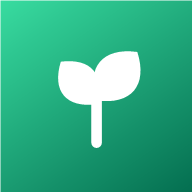
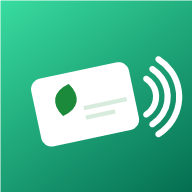
Add files via upload

Changed region(s): [[0.1562, 0.25, 0.9688, 0.7812]]

diff --git a/app.js b/app.js
@@ -220,6 +220,17 @@ async function startNFC() {
 }
 async function captureUid(cb) { if (!nfcReader) await startNFC(); captureCb = cb; toast('Acerca la tarjeta…'); }
 
+// Reloj grande en la pantalla de reposo.
+function startClock() {
+  const c = $('#clock'), d = $('#restDate');
+  const upd = () => {
+    const now = new Date();
+    c.textContent = now.toLocaleTimeString('es-ES', { hour: '2-digit', minute: '2-digit' });
+    d.textContent = now.toLocaleDateString('es-ES', { weekday: 'long', day: 'numeric', month: 'long' });
+  };
+  upd(); setInterval(upd, 1000);
+}
+
 /* ============================ PIN ============================ */
 const pinHash = pin => sha256hex('pin:' + pin);
 async function checkPin(pin) {
@@ -241,39 +252,53 @@ function openAdminLogin() {
 function openAdmin() { show('#admin'); panelHoras(); }
 function exitAdmin() { captureCb = null; show('#kiosk'); }
 
-/* --- Alta de tarjeta --- */
+/* --- Alta y edición de trabajadores --- */
+let altaFotoData = '';
 async function panelAlta() {
   setPanel(`
-    <h2>Alta de tarjeta</h2>
-    <p>1. Acerca la tarjeta nueva y pulsa <b>Leer tarjeta</b> (o escribe el número).</p>
+    <h2>Trabajadores y tarjetas</h2>
+    <p>Da de alta acercando una tarjeta (o escribe el número), o pulsa <b>Editar</b> en la lista de abajo para cambiar nombre o foto.</p>
     <div class="row"><button id="altaLeer" class="btn">📶 Leer tarjeta</button>
       <input id="altaUid" placeholder="UID de la tarjeta"></div>
-    <p>2. Nombre del trabajador:</p>
+    <p>Nombre:</p>
     <input id="altaNombre" placeholder="Nombre">
-    <p>3. Foto (cámara o galería):</p>
+    <p>Foto (cámara o galería):</p>
     <input id="altaFoto" type="file" accept="image/*">
     <img id="altaPrev" class="prev hidden">
-    <div class="row"><button id="altaGuardar" class="btn primary">Guardar</button></div>
+    <div class="row"><button id="altaGuardar" class="btn primary">Guardar</button>
+      <button id="altaLimpiar" class="btn">Nuevo / limpiar</button></div>
     <div id="altaMsg" class="msg"></div>
-    <h3>Tarjetas dadas de alta</h3><div id="altaLista"></div>`);
-  let fotoData = '';
+    <h3>Trabajadores</h3><div id="altaLista"></div>`);
+  altaFotoData = '';
   $('#altaLeer').onclick = () => captureUid(uid => { $('#altaUid').value = uid; });
-  $('#altaFoto').onchange = async e => { if (e.target.files[0]) { fotoData = await fileToThumb(e.target.files[0]); const p = $('#altaPrev'); p.src = fotoData; p.classList.remove('hidden'); } };
+  $('#altaFoto').onchange = async e => { if (e.target.files[0]) { altaFotoData = await fileToThumb(e.target.files[0]); showAltaPrev(altaFotoData); } };
+  $('#altaLimpiar').onclick = () => { $('#altaUid').value = ''; $('#altaNombre').value = ''; altaFotoData = ''; showAltaPrev(''); $('#altaMsg').textContent = ''; };
   $('#altaGuardar').onclick = async () => {
     const uid = normUid($('#altaUid').value.trim()), nombre = $('#altaNombre').value.trim();
     if (!uid || !nombre) { $('#altaMsg').textContent = 'Falta el UID o el nombre'; return; }
     const exists = await getWorker(uid);
-    await putWorker({ uid, nombre, foto: fotoData || (exists && exists.foto) || '', alta_ts: Date.now() });
-    $('#altaMsg').textContent = exists ? 'Tarjeta actualizada ✓' : 'Tarjeta dada de alta ✓';
+    await putWorker({ uid, nombre, foto: altaFotoData || (exists && exists.foto) || '', alta_ts: (exists && exists.alta_ts) || Date.now() });
+    $('#altaMsg').textContent = exists ? 'Trabajador actualizado ✓' : 'Trabajador dado de alta ✓';
     captureCb = null; renderAltaLista();
   };
   renderAltaLista();
 }
+function showAltaPrev(data) { const p = $('#altaPrev'); if (data) { p.src = data; p.classList.remove('hidden'); } else { p.src = ''; p.classList.add('hidden'); } }
 async function renderAltaLista() {
   const ws = await getAllWorkers();
   $('#altaLista').innerHTML = ws.length
-    ? ws.map(w => `<div class="wrow"><img src="${w.foto || ''}" class="mini">${w.nombre} <span class="muted">${w.uid}</span></div>`).join('')
-    : '<p class="muted">Ninguna todavía.</p>';
+    ? ws.map(w => `<div class="wrow"><img src="${w.foto || ''}" class="mini">${w.nombre} <span class="muted">${w.uid}</span> <button class="btn sm" data-edit="${w.uid}">Editar</button></div>`).join('')
+    : '<p class="muted">Ninguno todavía.</p>';
+  $('#altaLista').querySelectorAll('[data-edit]').forEach(b => b.onclick = () => editWorker(b.dataset.edit));
+}
+async function editWorker(uid) {
+  const w = await getWorker(uid); if (!w) return;
+  $('#altaUid').value = w.uid;
+  $('#altaNombre').value = w.nombre;
+  altaFotoData = w.foto || '';
+  showAltaPrev(w.foto || '');
+  $('#altaMsg').textContent = 'Editando a ' + w.nombre + ' — cambia el nombre o la foto y pulsa Guardar';
+  $('#adminBody').scrollIntoView({ block: 'start' });
 }
 
 /* --- Corrección (log de auditoría, nunca borra el original) --- */
@@ -495,15 +520,23 @@ function panelIntegridad() {
   };
 }
 
-/* --- Cambiar PIN --- */
+/* --- Ajustes: cambiar PIN + borrar datos --- */
 function panelPin() {
   setPanel(`
-    <h2>Cambiar PIN</h2>
+    <h2>Ajustes</h2>
+    <h3>Cambiar PIN</h3>
     <p>PIN nuevo (mínimo 4 dígitos):</p>
     <input id="pinNew" type="password" inputmode="numeric" placeholder="PIN nuevo">
     <input id="pinNew2" type="password" inputmode="numeric" placeholder="Repite el PIN">
     <button id="pinSave" class="btn primary">Guardar PIN</button>
-    <div id="pinMsg" class="msg"></div>`);
+    <div id="pinMsg" class="msg"></div>
+    <hr style="margin:22px 0;border:none;border-top:1px solid #ddd">
+    <h3>Borrar todos los datos</h3>
+    <p class="muted">Borra <b>todos los fichajes y todas las tarjetas</b>. Úsalo solo para empezar de cero
+    (por ejemplo, antes de usar las tarjetas reales). <b>No se puede deshacer.</b> Si tienes fichajes que
+    quieras guardar, expórtalos antes en <b>Exportar</b>.</p>
+    <button id="resetBtn" class="btn" style="background:#c62828">🗑 Borrar todos los datos</button>
+    <div id="resetMsg" class="msg"></div>`);
   $('#pinSave').onclick = async () => {
     const a = $('#pinNew').value, b = $('#pinNew2').value;
     if (a.length < 4) return $('#pinMsg').textContent = 'Mínimo 4 dígitos';
@@ -511,11 +544,29 @@ function panelPin() {
     await metaPut({ id: 'pin', hash: await pinHash(a) });
     $('#pinMsg').textContent = 'PIN cambiado ✓';
   };
+  $('#resetBtn').onclick = async () => {
+    const t = prompt('Esto borrará TODOS los fichajes y tarjetas.\nEscribe BORRAR (en mayúsculas) para confirmar:');
+    if (t !== 'BORRAR') return $('#resetMsg').textContent = 'Cancelado (no se borró nada).';
+    await resetAllData();
+    $('#resetMsg').textContent = 'Datos borrados. Todo a cero ✓';
+  };
+}
+// Borra fichajes + tarjetas y reinicia la cadena. Conserva el PIN.
+async function resetAllData() {
+  await new Promise((res, rej) => {
+    const t = db.transaction(['records', 'workers', 'meta'], 'readwrite');
+    t.oncomplete = res; t.onerror = () => rej(t.error);
+    t.objectStore('records').clear();
+    t.objectStore('workers').clear();
+    t.objectStore('meta').delete('chain');
+  });
+  lastRead = { uid: null, at: 0 };
 }
 
 /* ============================ Arranque ============================ */
 (async () => {
   db = await dbp;
+  startClock();
   // Kiosco: intenta NFC; si necesita gesto, mostrará "Toca la pantalla".
   await startNFC();
   $('#kiosk').addEventListener('click', e => { if (e.target.id !== 'gear' && !nfcReader) startNFC(); });

diff --git a/index.html b/index.html
@@ -15,7 +15,22 @@
 <section id="kiosk" class="screen active">
   <button id="gear" title="Administrador">&#9881;</button>
   <div id="rest">
-    <div class="rest-emoji">&#127793;</div>
+    <div id="clock">--:--</div>
+    <div id="restDate"></div>
+    <svg id="restArt" viewBox="0 0 260 190" xmlns="http://www.w3.org/2000/svg" aria-hidden="true">
+      <g transform="rotate(-10 109 104)">
+        <rect x="34" y="54" width="150" height="100" rx="16" fill="#ffffff"/>
+        <path d="M64 112 Q 64 80 104 80 Q 104 118 64 112 Z" fill="#1b8a3a"/>
+        <path d="M70 108 L 98 86" stroke="#ffffff" stroke-width="3" stroke-linecap="round"/>
+        <rect x="116" y="90" width="52" height="9" rx="4.5" fill="#cfe8d6"/>
+        <rect x="116" y="110" width="36" height="9" rx="4.5" fill="#cfe8d6"/>
+      </g>
+      <g class="waves" stroke="#ffffff" stroke-width="11" stroke-linecap="round" fill="none">
+        <path class="w1" d="M196 76 a 30 30 0 0 1 0 48"/>
+        <path class="w2" d="M210 62 a 46 46 0 0 1 0 76"/>
+        <path class="w3" d="M224 48 a 62 62 0 0 1 0 104"/>
+      </g>
+    </svg>
     <div class="rest-text">Acerca tu tarjeta</div>
     <div id="tapHint" class="hidden">Toca la pantalla para activar</div>
     <div id="nfcWarn" class="hidden">Este navegador no soporta NFC.<br>Usa Chrome en Android.</div>
@@ -50,7 +65,7 @@
     <button id="navConsulta">&#128269; Consulta</button>
     <button id="navExport">&#11015; Exportar</button>
     <button id="navInteg">&#128274; Integridad</button>
-    <button id="navPin">&#128273; PIN</button>
+    <button id="navPin">&#9881; Ajustes</button>
     <button id="navSalir">&#8592; Salir</button>
   </div>
   <div id="adminBody"></div>

diff --git a/styles.css b/styles.css
@@ -5,10 +5,17 @@ html,body{margin:0;height:100%;font-family:system-ui,Arial,sans-serif;background
 .hidden{display:none!important}
 
 /* ===== KIOSCO ===== */
-#kiosk{position:relative;height:100vh;display:flex;align-items:center;justify-content:center;background:#122a1c}
+#kiosk{position:relative;height:100vh;display:flex;align-items:center;justify-content:center;background:radial-gradient(circle at 50% 40%,#14514a 0%,#0e2a4a 55%,#0a1c38 100%)}
 #gear{position:absolute;top:8px;right:8px;background:transparent;border:none;font-size:26px;opacity:.25;color:#fff}
 #rest{text-align:center;padding:20px}
-.rest-emoji{font-size:120px;line-height:1}
+#clock{font-size:min(18vw,108px);font-weight:800;line-height:1;letter-spacing:2px;font-variant-numeric:tabular-nums}
+#restDate{font-size:min(5vw,26px);opacity:.85;margin:4px 0 14px;text-transform:capitalize}
+#restArt{width:min(66vw,320px);height:auto;margin-bottom:12px;filter:drop-shadow(0 10px 24px #0005)}
+#restArt .waves path{opacity:.22;animation:nfcpulse 1.8s infinite}
+#restArt .w2{animation-delay:.22s}
+#restArt .w3{animation-delay:.44s}
+@keyframes nfcpulse{0%,55%,100%{opacity:.22}28%{opacity:1}}
+@media (prefers-reduced-motion:reduce){#restArt .waves path{animation:none;opacity:.85}}
 .rest-text{font-size:min(12vw,64px);font-weight:800}
 #tapHint,#nfcWarn{margin-top:20px;font-size:22px;background:#0006;padding:10px 16px;border-radius:12px;display:inline-block}
 #result{position:fixed;inset:0;display:flex;flex-direction:column;align-items:center;justify-content:center;text-align:center;padding:20px}

diff --git a/sw.js b/sw.js
@@ -1,4 +1,4 @@
-const CACHE = 'fichaje-v3';
+const CACHE = 'fichaje-v5';
 const ASSETS = ['.', 'index.html', 'styles.css', 'app.js', 'manifest.webmanifest', 'icon-192.png', 'icon-512.png'];
 
 self.addEventListener('install', e => {

diff --git a/README.md b/README.md
@@ -75,6 +75,25 @@ Para cambiar la foto o el nombre, vuelve a leer la misma tarjeta y guarda de nue
   - Fondo **rojo**: tarjeta no dada de alta.
 - A los ~3-4 segundos vuelve solo a la pantalla de reposo.
 - El sistema decide solo si es entrada o salida (alterna según el último fichaje del día).
+- En reposo se ve la **hora y la fecha** grandes.
+
+### Cuántas veces fichar según el horario
+
+El sistema alterna entrada/salida solo, así que basta con **acercar la tarjeta en cada momento**:
+
+- **Verano (julio y agosto)** — jornada seguida 6:00 a 14:00. Se ficha **2 veces**:
+  1. Al **entrar** (6:00) → verde.
+  2. Al **salir** (14:00) → naranja.
+- **Resto del año (desde septiembre)** — jornada partida 7:30–13:00 y 13:30–16:00, con media
+  hora para comer. Se ficha **4 veces**:
+  1. Al **entrar** (7:30) → verde.
+  2. Al **irse a comer** (13:00) → naranja.
+  3. Al **volver de comer** (13:30) → verde.
+  4. Al **salir** (16:00) → naranja.
+
+La media hora de la comida **no cuenta** como trabajada (el sistema resta el hueco entre la
+salida y la siguiente entrada). Si alguien se olvida de fichar alguna de las 4, ese día sale
+marcado como **incompleto** y se arregla en *Corrección*.
 
 ---
 
@@ -82,17 +101,20 @@ Para cambiar la foto o el nombre, vuelve a leer la misma tarjeta y guarda de nue
 
 Engranaje ⚙ → PIN (por defecto **1234**). Menú:
 
-- **Alta tarjeta**: registrar / actualizar trabajadores.
+- **Alta tarjeta**: dar de alta trabajadores y **editar** el nombre o la foto de los que ya
+  existen (botón *Editar* en la lista).
 - **Corrección**: NO borra ni edita el original. Añade un registro de corrección con
-  **motivo** (añadir un fichaje olvidado, anular uno erróneo o cambiar la hora). Queda todo
-  en el log de auditoría.
-- **Horas**: horas por día (salida − entrada) y **totales** por trabajador y periodo
-  (*Esta semana* / *Este mes* / rango de fechas). Los días **incompletos** (falta entrada o
-  salida) salen marcados en **rojo** para corregirlos.
+  **motivo** (añadir un fichaje olvidado, anular uno erróneo o cambiar la hora). Las horas
+  puestas a mano por el administrador se marcan con un **\*** en los listados. Queda todo en
+  el log de auditoría.
+- **Horas**: horas por día y **totales** por trabajador y periodo (*Esta semana* / *Este mes*
+  / rango de fechas). Los días **incompletos** (falta entrada o salida) salen en **rojo**.
 - **Consulta**: ver los fichajes de un trabajador concreto.
 - **Exportar**: genera el archivo (ver punto 7).
 - **Integridad**: comprueba que **nadie ha manipulado** los fichajes (cadena de hashes).
-- **PIN**: cambia el PIN. **Cámbialo el primer día** (el 1234 es solo inicial).
+- **Ajustes**: cambiar el **PIN** (cámbialo el primer día, el 1234 es solo inicial) y
+  **Borrar todos los datos** (para empezar de cero con las tarjetas reales; pide confirmación
+  y no se puede deshacer).
 
 ---
 
